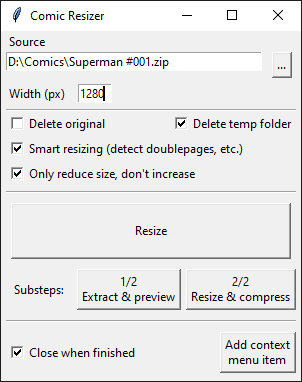
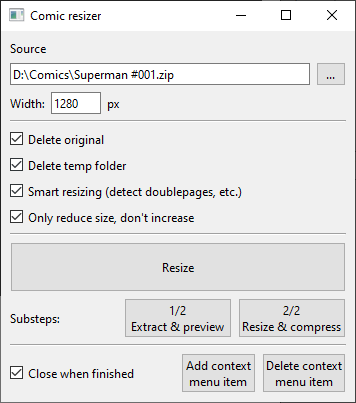
Added, edited projects

diff --git a/src/components/ProjectsSection/data.jsx b/src/components/ProjectsSection/data.jsx
@@ -189,10 +189,19 @@ export const data = [
     {
         title: "Comic resizer with size anomaly detection",
         images: ["/pf/ComicResizer/0.png"],
-        tags: ['Hobby', 'Python'],
+        tags: ['Hobby', 'Python', 'Qt'],
         description:`<p>Utility to batch resize all pages of a comic, with automatic detection of double pages and other size related anomalies.</p>
         <p>If smart resizing is enabled, pages which are considerably larger or smaller than the majority will not be resized to the user specified size, but rather to a proportional size based on its original ratio to the other pages.</p>`,
         github_link: "https://github.com/Tyronnosaurus/ComicResizer"
+    },
+
+    {
+        title: "Automatic file organizer with Machine Learning",
+        images: ["/pf/FileOrganizer/1.png"],
+        tags: ['Hobby', 'Python', 'Pandas', 'scikit-learn', 'Qt'],
+        description:`<p>Utility to automatically organize files on a hierarchical folder structure.</p>
+        <p>It allows the user to train a model on a collection of previously organized files. Each new file to organize has its filename analyzed and is given 4 possible destinations in decreasing order of confidence.</p>
+        <p>I use it regularly and will probably continue to do so for the rest of my life.</p>`,
     },
 
     {
